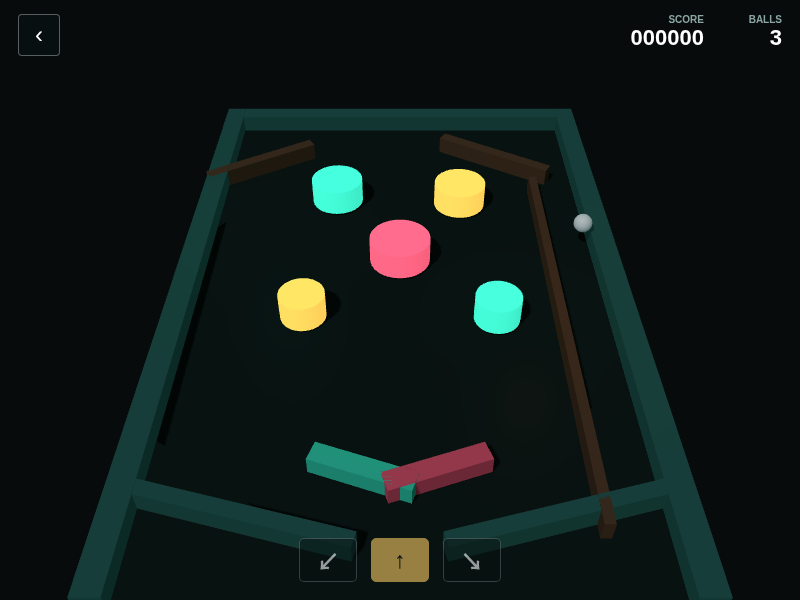
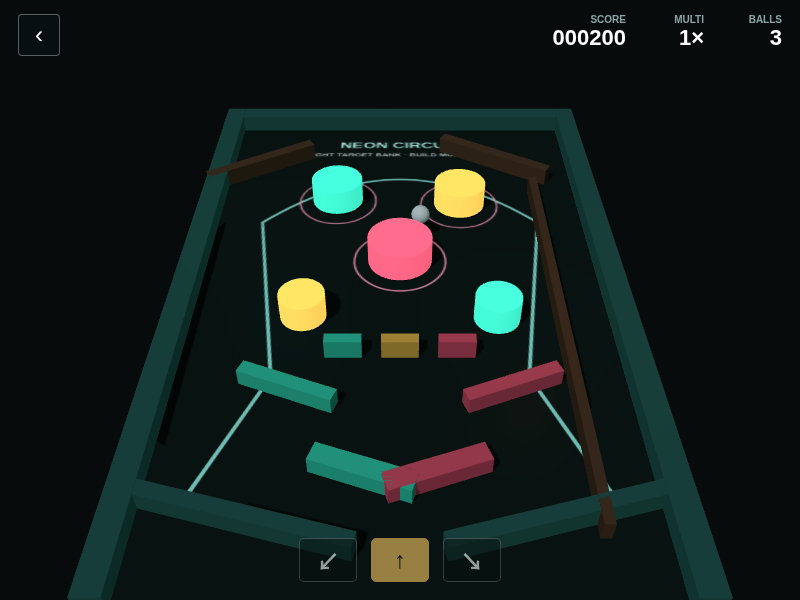
feat: refine arcade games

diff --git a/arcade/pinball/index.html b/arcade/pinball/index.html
@@ -17,10 +17,13 @@
     .stats { display: flex; gap: 24px; text-align: right; }
     .stat span { display: block; color: #8ca5a4; font-size: 10px; font-weight: 700; }
     .stat strong { display: block; min-width: 54px; color: #fff; font-size: 22px; line-height: 1.15; }
-    .message { position: absolute; top: 44%; left: 50%; translate: -50% -50%; width: min(88vw, 430px); text-align: center; pointer-events: auto; }
+    .message { position: absolute; top: 44%; left: 50%; translate: -50% -50%; width: min(90vw, 470px); text-align: center; pointer-events: auto; }
     .message h1 { margin: 0 0 8px; color: #78f2d3; font-size: clamp(30px, 7vw, 54px); letter-spacing: 0; }
-    .message p { margin: 0 0 20px; color: #c5cfce; font-size: 13px; }
-    .message button { min-width: 150px; height: 44px; border: 0; border-radius: 4px; color: #071012; background: #78f2d3; font: 800 14px Arial, sans-serif; cursor: pointer; }
+    .message p { margin: 5px 0; color: #c5cfce; font-size: 13px; line-height: 1.45; }
+    .message .rules { color: #fff; font-weight: 700; }
+    .message button { min-width: 150px; height: 44px; margin-top: 14px; border: 0; border-radius: 4px; color: #071012; background: #78f2d3; font: 800 14px Arial, sans-serif; cursor: pointer; }
+    .source-link { display: block; width: max-content; margin: 12px auto 0; color: #8ca5a4; font-size: 11px; text-decoration: none; }
+    .source-link:hover, .source-link:focus-visible { color: #78f2d3; }
     .message[hidden] { display: none; }
     .controls { position: absolute; right: 0; bottom: max(18px, env(safe-area-inset-bottom)); left: 0; display: flex; justify-content: center; gap: 14px; pointer-events: auto; }
     .control { width: 64px; height: 52px; border: 1px solid #ffffff55; border-radius: 5px; color: #fff; background: #071012d9; font: 800 23px Arial, sans-serif; touch-action: none; cursor: pointer; }
@@ -37,13 +40,16 @@
       <a class="back" href="/arcade/" aria-label="返回游戏库" title="返回游戏库">‹</a>
       <div class="stats">
         <div class="stat"><span>SCORE</span><strong id="score">000000</strong></div>
+        <div class="stat"><span>MULTI</span><strong id="multiplier">1×</strong></div>
         <div class="stat"><span>BALLS</span><strong id="balls">3</strong></div>
       </div>
     </div>
     <div class="message" id="message">
       <h1>NEON PINBALL</h1>
-      <p><b>A / ←</b> 左挡板　<b>D / →</b> 右挡板　<b>Space</b> 发球</p>
+      <p class="rules" id="rules">撞击保险杠得分 · 点亮三枚目标提升倍率 · 每局 3 球</p>
+      <p id="controls-copy"><b>A / ←</b> 左挡板　<b>D / →</b> 右挡板　<b>Space</b> 发球　<b>R</b> 重开</p>
       <button type="button" id="start">LAUNCH BALL</button>
+      <a class="source-link" href="https://alula.github.io/SpaceCadetPinball/" target="_blank" rel="noopener noreferrer">经典 Space Cadet 开源网页移植 ↗</a>
     </div>
     <div class="controls" aria-label="弹球控制">
       <button class="control" id="left" type="button" aria-label="左挡板" title="左挡板">↙</button>
@@ -64,8 +70,11 @@
       const SCALE = 60;
       const canvas = document.getElementById('scene');
       const scoreNode = document.getElementById('score');
+      const multiplierNode = document.getElementById('multiplier');
       const ballsNode = document.getElementById('balls');
       const message = document.getElementById('message');
+      const rules = document.getElementById('rules');
+      const controlsCopy = document.getElementById('controls-copy');
       const live = document.getElementById('live');
       const renderer = new THREE.WebGLRenderer({ canvas, antialias: true });
       const scene = new THREE.Scene();
@@ -73,6 +82,8 @@
       const engine = Engine.create({ enableSleeping: false });
       const meshes = new Map();
       const flashes = new Map();
+      const targets = [];
+      const targetLit = new Set();
       const keys = { left: false, right: false };
       let ball;
       let ballMesh;
@@ -80,6 +91,9 @@
       let rightFlipper;
       let score = 0;
       let balls = 3;
+      let multiplier = 1;
+      let targetBankLocked = false;
+      let leftPlungerLane = false;
       let state = 'idle';
       let lastTime = performance.now();
       let audio;
@@ -111,8 +125,38 @@
       board.receiveShadow = true;
       scene.add(board);
 
+      const art = document.createElement('canvas');
+      art.width = W;
+      art.height = H;
+      const artCtx = art.getContext('2d');
+      artCtx.strokeStyle = '#2a8478';
+      artCtx.lineWidth = 5;
+      artCtx.beginPath();
+      artCtx.moveTo(72, 790); artCtx.lineTo(145, 610); artCtx.lineTo(95, 300); artCtx.quadraticCurveTo(300, 70, 505, 300); artCtx.lineTo(455, 610); artCtx.lineTo(528, 790);
+      artCtx.stroke();
+      artCtx.strokeStyle = '#a73e5b';
+      artCtx.lineWidth = 3;
+      for (const [x, y, r] of [[205, 245, 58], [390, 255, 58], [300, 390, 64]]) {
+        artCtx.beginPath(); artCtx.arc(x, y, r, 0, Math.PI * 2); artCtx.stroke();
+      }
+      artCtx.fillStyle = '#78f2d3';
+      artCtx.font = '800 28px Arial';
+      artCtx.textAlign = 'center';
+      artCtx.fillText('NEON CIRCUIT', W / 2, 90);
+      artCtx.fillStyle = '#8ca5a4';
+      artCtx.font = '700 15px Arial';
+      artCtx.fillText('LIGHT TARGET BANK · BUILD MULTIPLIER', W / 2, 116);
+      const boardArt = new THREE.Mesh(
+        new THREE.PlaneGeometry(W / SCALE, H / SCALE),
+        new THREE.MeshBasicMaterial({ map: new THREE.CanvasTexture(art), transparent: true, depthWrite: false })
+      );
+      boardArt.rotation.x = -Math.PI / 2;
+      boardArt.position.y = -.115;
+      scene.add(boardArt);
+
       function addBox(x, y, width, height, angle = 0, color = 0x24544f, label = 'wall', depth = .45) {
-        const body = Bodies.rectangle(x, y, width, height, { isStatic: true, angle, label, restitution: .65, friction: 0 });
+        const restitution = label === 'slingshot' ? 1.18 : label.startsWith('target') ? .9 : .65;
+        const body = Bodies.rectangle(x, y, width, height, { isStatic: true, angle, label, restitution, friction: 0 });
         const mesh = new THREE.Mesh(new THREE.BoxGeometry(width / SCALE, depth, height / SCALE), material(color, color === 0x24544f ? 0x08211e : 0x000000));
         mesh.castShadow = true;
         mesh.receiveShadow = true;
@@ -148,6 +192,11 @@
       addBumper(300, 390, 42, 0xf05d7a);
       addBumper(175, 505, 30, 0xffc857);
       addBumper(425, 510, 30, 0x3de3c2);
+      addBox(168, 635, 122, 18, .38, 0x3de3c2, 'slingshot', .38);
+      addBox(432, 635, 122, 18, -.38, 0xf05d7a, 'slingshot', .38);
+      for (const [index, x, color] of [[0, 230, 0x3de3c2], [1, 300, 0xffc857], [2, 370, 0xf05d7a]]) {
+        targets.push(addBox(x, 570, 46, 15, 0, color, `target-${index}`, .5));
+      }
 
       leftFlipper = addBox(255, 735, 118, 24, .35, 0x3de3c2, 'flipper', .38);
       rightFlipper = addBox(345, 735, 118, 24, Math.PI - .35, 0xf05d7a, 'flipper', .38);
@@ -174,20 +223,35 @@
         ballMesh.castShadow = true;
         scene.add(ballMesh);
         World.add(engine.world, ball);
+        leftPlungerLane = false;
         state = 'ready';
+      }
+
+      function resetTargetBank() {
+        targetLit.clear();
+        targetBankLocked = false;
+        for (const target of targets) meshes.get(target.id).material.emissive.setHex(0x000000);
+      }
+
+      function addScore(points) {
+        score += points * multiplier;
+        scoreNode.textContent = String(score).padStart(6, '0');
       }
 
       function launch() {
         if (state === 'idle' || state === 'over') {
           score = 0;
           balls = 3;
+          multiplier = 1;
           scoreNode.textContent = '000000';
           ballsNode.textContent = '3';
+          multiplierNode.textContent = '1×';
+          resetTargetBank();
           makeBall();
         }
         if (state !== 'ready') return;
         message.hidden = true;
-        Body.setVelocity(ball, { x: -2.1, y: -19 });
+        Body.setVelocity(ball, { x: -1.5, y: -34 });
         state = 'playing';
         tone(210, .08);
         live.textContent = '发球';
@@ -202,7 +266,8 @@
         if (balls <= 0) {
           state = 'over';
           message.querySelector('h1').textContent = 'GAME OVER';
-          message.querySelector('p').textContent = `SCORE ${String(score).padStart(6, '0')} · R 重新开始`;
+          rules.textContent = `最终得分 ${String(score).padStart(6, '0')} · 最高倍率 ${multiplier}×`;
+          controlsCopy.textContent = 'Space 或点击重新开始 · R 重开';
           message.querySelector('button').textContent = 'PLAY AGAIN';
           message.hidden = false;
           live.textContent = `游戏结束，得分 ${score}`;
@@ -225,18 +290,34 @@
 
       Events.on(engine, 'collisionStart', event => {
         for (const pair of event.pairs) {
-          const bumper = pair.bodyA.label === 'bumper' ? pair.bodyA : pair.bodyB.label === 'bumper' ? pair.bodyB : null;
-          const hitBall = pair.bodyA.label === 'ball' || pair.bodyB.label === 'ball';
-          if (!bumper || !hitBall) continue;
-          score += 100;
-          scoreNode.textContent = String(score).padStart(6, '0');
-          flashes.set(bumper.id, 1);
-          const dx = ball.position.x - bumper.position.x;
-          const dy = ball.position.y - bumper.position.y;
-          const length = Math.hypot(dx, dy) || 1;
-          Body.setVelocity(ball, { x: ball.velocity.x + dx / length * 4.5, y: ball.velocity.y + dy / length * 4.5 });
-          tone(380 + score % 500, .06);
-          navigator.vibrate?.(12);
+          const other = pair.bodyA === ball ? pair.bodyB : pair.bodyB === ball ? pair.bodyA : null;
+          if (!other) continue;
+          if (other.label === 'bumper') {
+            addScore(100);
+            flashes.set(other.id, 1);
+            const dx = ball.position.x - other.position.x;
+            const dy = ball.position.y - other.position.y;
+            const length = Math.hypot(dx, dy) || 1;
+            Body.setVelocity(ball, { x: ball.velocity.x + dx / length * 4.5, y: ball.velocity.y + dy / length * 4.5 });
+            tone(380 + score % 500, .06);
+            navigator.vibrate?.(12);
+          } else if (other.label.startsWith('target')) {
+            addScore(targetLit.has(other.id) ? 50 : 250);
+            targetLit.add(other.id);
+            meshes.get(other.id).material.emissive.setHex(meshes.get(other.id).material.color.getHex());
+            if (targetLit.size === targets.length && !targetBankLocked) {
+              targetBankLocked = true;
+              multiplier = Math.min(5, multiplier + 1);
+              multiplierNode.textContent = `${multiplier}×`;
+              addScore(1000);
+              live.textContent = `目标组完成，倍率 ${multiplier} 倍`;
+              tone(920, .14);
+              setTimeout(resetTargetBank, 700);
+            } else tone(620, .06);
+          } else if (other.label === 'slingshot') {
+            addScore(50);
+            tone(280, .045);
+          }
         }
       });
 
@@ -257,11 +338,17 @@
         positionFlipper(rightFlipper, 395, keys.right ? Math.PI + .42 : Math.PI - .34);
         Engine.update(engine, dt);
         if (ball) {
+          if (state === 'playing' && !leftPlungerLane && ball.position.y < 205) {
+            Body.setVelocity(ball, { x: -8, y: ball.velocity.y });
+            leftPlungerLane = true;
+          }
           ballMesh.position.set(toX(ball.position.x), .55, toZ(ball.position.y));
           ballMesh.rotation.x += ball.velocity.y * .002;
           ballMesh.rotation.z -= ball.velocity.x * .002;
           if (ball.position.y > H + 40) drain();
         }
+        document.body.dataset.state = state;
+        document.body.dataset.multiplier = String(multiplier);
         for (const body of engine.world.bodies) if (body.label === 'bumper') {
           const flash = Math.max(0, (flashes.get(body.id) || 0) - dt / 260);
           flashes.set(body.id, flash);
@@ -302,6 +389,8 @@
       makeBall();
       console.assert(THREE.REVISION === '160', 'Three.js revision');
       console.assert(engine.world.bodies.filter(body => body.label === 'bumper').length === 5, 'bumper setup');
+      console.assert(targets.length === 3, 'target bank setup');
+      console.assert(engine.world.bodies.filter(body => body.label === 'slingshot').length === 2, 'slingshot setup');
       resize();
       requestAnimationFrame(frame);
       document.body.dataset.selfCheck = 'ok';

diff --git a/arcade/sky-hopper/index.html b/arcade/sky-hopper/index.html
@@ -17,8 +17,9 @@
     .best strong { display: block; font-size: 23px; line-height: 1.1; }
     .message { position: fixed; top: 48%; left: 50%; z-index: 3; translate: -50% -50%; width: min(88vw, 390px); color: #18333a; text-align: center; }
     .message h1 { margin: 0 0 8px; font-size: clamp(34px, 10vw, 58px); letter-spacing: 0; }
-    .message p { margin: 0 0 18px; font-size: 14px; }
-    .message button { min-width: 144px; height: 44px; border: 0; border-radius: 4px; color: #fff; background: #d94f50; font: 800 14px Arial, sans-serif; cursor: pointer; }
+    .message p { margin: 5px 0; font-size: 14px; line-height: 1.45; }
+    .message .rules { font-weight: 800; }
+    .message button { min-width: 144px; height: 44px; margin-top: 14px; border: 0; border-radius: 4px; color: #fff; background: #d94f50; font: 800 14px Arial, sans-serif; cursor: pointer; }
     .message[hidden] { display: none; }
     .sr-only { position: absolute; width: 1px; height: 1px; margin: -1px; overflow: hidden; clip: rect(0,0,0,0); white-space: nowrap; }
   </style>
@@ -29,7 +30,8 @@
   <div class="best"><span>BEST</span><strong id="best">0</strong></div>
   <div class="message" id="message">
     <h1>SKY HOPPER</h1>
-    <p><b>Space</b>、点击或触屏起跳</p>
+    <p class="rules" id="rules">穿过一组管道得 1 分 · 撞到管道或地面结束</p>
+    <p id="controls-copy"><b>Space</b>、点击或触屏起跳　<b>R</b> 重开</p>
     <button type="button" id="start">START</button>
   </div>
   <p class="sr-only" id="live" aria-live="polite">等待开始</p>
@@ -44,6 +46,8 @@
       const canvas = document.getElementById('game');
       const ctx = canvas.getContext('2d');
       const message = document.getElementById('message');
+      const rules = document.getElementById('rules');
+      const controlsCopy = document.getElementById('controls-copy');
       const live = document.getElementById('live');
       const bestNode = document.getElementById('best');
       const engine = Engine.create({ enableSleeping: false });
@@ -117,7 +121,8 @@
         localStorage.setItem('sky-hopper-best', String(best));
         bestNode.textContent = String(best);
         message.querySelector('h1').textContent = score ? `SCORE ${score}` : 'TRY AGAIN';
-        message.querySelector('p').textContent = 'Space 或点击重新开始 · R 重开';
+        rules.textContent = `本局 ${score} 分 · 最高 ${best} 分`;
+        controlsCopy.textContent = 'Space、点击或触屏重新开始 · R 重开';
         message.querySelector('button').textContent = 'PLAY AGAIN';
         message.hidden = false;
         live.textContent = `游戏结束，得分 ${score}`;

diff --git a/recoil-duel/index.html b/recoil-duel/index.html
@@ -22,7 +22,7 @@
 
     #game-shell {
       position: relative;
-      width: min(100vw, 800px, calc(100svh * 4 / 3));
+      width: min(100vw, 780px, calc(100svh * 4 / 3));
       aspect-ratio: 4 / 3;
       max-height: 100svh;
       overflow: hidden;
@@ -149,6 +149,7 @@
       <button type="button" data-mode="pvp" aria-label="双人模式，快捷键 2" aria-pressed="false">2P VS</button>
     </div>
     <div id="start-help">
+      <p>开火会推动枪身 · 子弹相撞抵消 · 命中三次获胜</p>
       <p id="mode-help">蓝方：<kbd>F</kbd> / <kbd>Space</kbd> 开火 · 红方：AI</p>
       <p><kbd>1</kbd>/<kbd>2</kbd> 切换模式 · <kbd>Space</kbd> 开始 · <kbd>R</kbd> 重开</p>
     </div>
@@ -159,8 +160,8 @@
     (() => {
       'use strict';
 
-      const W = 600;
-      const H = 450;
+      const W = 580;
+      const H = 435;
       const PLAYER = '#28c4f5';
       const ENEMY = '#ff244d';
       const BG = '#242427';
@@ -196,8 +197,8 @@
         return {
           side,
           color: isPlayer ? PLAYER : ENEMY,
-          x: isPlayer ? 165 : 435,
-          y: 225,
+          x: isPlayer ? 160 : 420,
+          y: H / 2,
           vx: 0,
           vy: 0,
           angle: isPlayer ? 0 : Math.PI,
@@ -414,7 +415,7 @@
         const damping = Math.pow(.993, dt * 60);
         actor.vx *= damping;
         actor.vy *= damping;
-        actor.spin *= Math.pow(.997, dt * 60);
+        actor.spin *= Math.pow(.996, dt * 60);
         actor.x += actor.vx * dt;
         actor.y += actor.vy * dt;
         actor.angle += actor.spin * dt;

diff --git a/arcade/index.html b/arcade/index.html
@@ -73,7 +73,7 @@
           <div class="game-body">
             <p class="game-type">3D PINBALL · PHYSICS</p>
             <h2>Neon Pinball</h2>
-            <p>三维桌面、真实碰撞和双挡板控制。击中目标，守住每一颗球。</p>
+            <p>三维桌面、发射轨道、双挡板和目标倍率系统。击中目标，守住每一颗球。</p>
             <div class="game-meta"><span>Three.js</span><span>Matter.js</span><span>单人</span></div>
           </div>
         </article>
